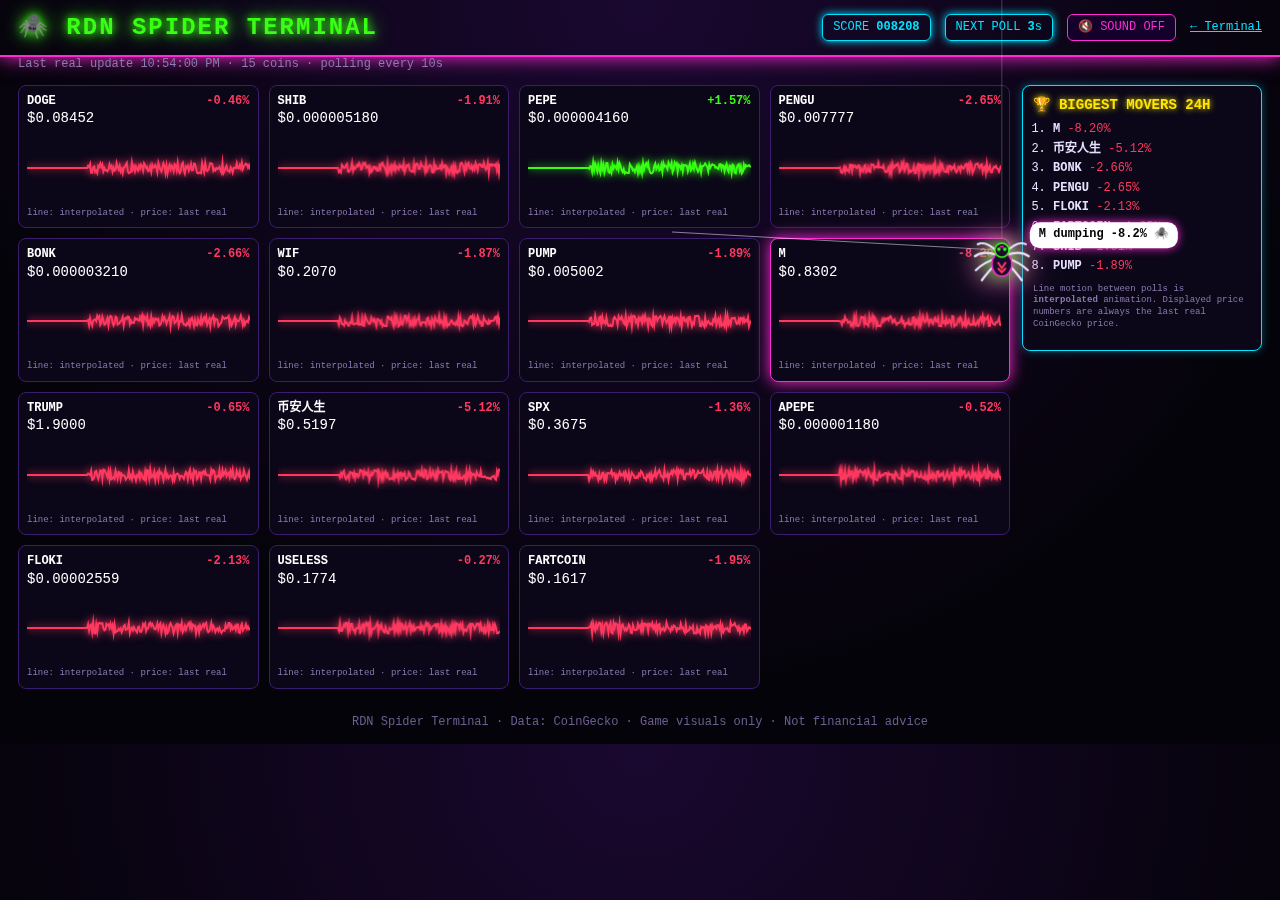
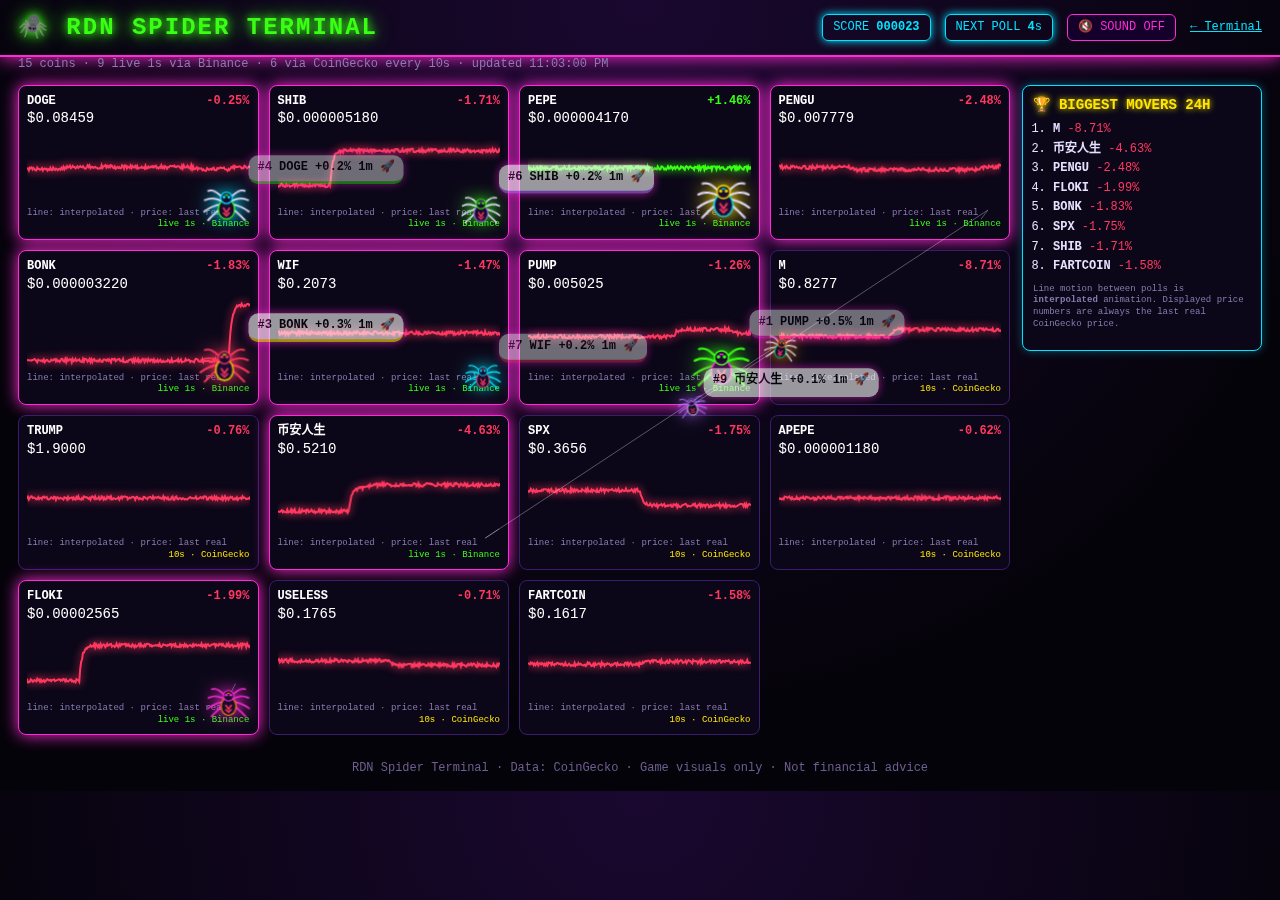
Spider Terminal: Binance 1s websocket prices w/ CoinGecko fallback, 9 spiders

Changed region(s): [[0.0, 0.0622, 0.9375, 0.84], [0.25, 0.7778, 0.7188, 0.9022]]

diff --git a/skull/index.html b/skull/index.html
@@ -14,9 +14,9 @@ button{background:#14002a;color:#ff2bd6;border:1px solid #ff2bd6;padding:5px 10p
 canvas.c{width:100%;height:80px;display:block}.p{font-size:14px;color:#fff}.lbl{font-size:9px;color:#8a7bb0}
 aside{background:#0b0718;border:1px solid #00e5ff;border-radius:8px;padding:10px;box-shadow:0 0 10px #00e5ff55;height:fit-content}
 aside h3{margin:0 0 8px;color:#ffe600;text-shadow:0 0 6px #ffe600}aside ol{margin:0;padding-left:20px}aside li{margin:4px 0}
-#skull{position:fixed;left:0;top:0;width:64px;height:64px;pointer-events:none;z-index:10;filter:drop-shadow(0 0 10px #39ff14) drop-shadow(0 0 14px #ff2bd6)}
+.sp{position:fixed;left:0;top:0;pointer-events:none;z-index:10}.sp svg{width:100%;height:100%;filter:drop-shadow(0 0 8px var(--c2))}.src{font-size:9px;float:right}.src.b{color:#39ff14}.src.g{color:#ffe600}
 #trail{position:fixed;inset:0;pointer-events:none;z-index:9}
-#bub{position:fixed;left:0;top:0;z-index:11;background:#fff;color:#000;font-weight:700;padding:5px 9px;border-radius:10px;white-space:nowrap;pointer-events:none;box-shadow:0 0 10px #ff2bd6}
+.bub{position:fixed;left:0;top:0;transition:opacity .4s;z-index:11;background:#fff;color:#000;font-weight:700;padding:5px 9px;border-radius:10px;white-space:nowrap;pointer-events:none;box-shadow:0 0 10px #ff2bd6}
 #st{color:#8a7bb0;padding:0 18px}footer{text-align:center;color:#6d5f90;padding:14px}a{color:#00e5ff}
 @media(max-width:800px){.wrap{grid-template-columns:1fr}}
 </style></head><body>
@@ -24,52 +24,79 @@ aside h3{margin:0 0 8px;color:#ffe600;text-shadow:0 0 6px #ffe600}aside ol{margi
 <div id="st">Loading real prices…</div>
 <div class="wrap"><div id="grid"></div><aside><h3>🏆 BIGGEST MOVERS 24H</h3><ol id="lb"></ol><p class="lbl">Line motion between polls is <b>interpolated</b> animation. Displayed price numbers are always the last real CoinGecko price.</p></aside></div>
 <canvas id="trail"></canvas>
-<svg id="skull" viewBox="0 0 64 64"><style>.lg{stroke:#e8e0ff;stroke-width:2.2;fill:none;stroke-linecap:round}.L{transform-origin:32px 34px;animation:wg .18s infinite alternate ease-in-out}.R{transform-origin:32px 34px;animation:wg .18s infinite alternate-reverse ease-in-out}@keyframes wg{from{transform:rotate(-7deg)}to{transform:rotate(7deg)}}</style>
-<g class="L"><path class="lg" d="M28 30 Q16 18 8 22"/><path class="lg" d="M27 33 Q14 28 5 34"/><path class="lg" d="M27 36 Q14 40 6 48"/><path class="lg" d="M28 39 Q18 50 12 58"/></g>
+<svg width="0" height="0" style="position:absolute"><style>.lg{stroke:var(--leg);stroke-width:2.2;fill:none;stroke-linecap:round}.L{transform-origin:32px 34px;animation:wg .18s infinite alternate ease-in-out}.R{transform-origin:32px 34px;animation:wg .18s infinite alternate-reverse ease-in-out}@keyframes wg{from{transform:rotate(-7deg)}to{transform:rotate(7deg)}}</style><defs><symbol id="spd" viewBox="0 0 64 64"><g class="L"><path class="lg" d="M28 30 Q16 18 8 22"/><path class="lg" d="M27 33 Q14 28 5 34"/><path class="lg" d="M27 36 Q14 40 6 48"/><path class="lg" d="M28 39 Q18 50 12 58"/></g>
 <g class="R"><path class="lg" d="M36 30 Q48 18 56 22"/><path class="lg" d="M37 33 Q50 28 59 34"/><path class="lg" d="M37 36 Q50 40 58 48"/><path class="lg" d="M36 39 Q46 50 52 58"/></g>
-<ellipse cx="32" cy="42" rx="10" ry="12" fill="#1a0b2e" stroke="#ff2bd6" stroke-width="1.5"/><path d="M28 40 L32 46 L36 40 M28 46 L32 50 L36 46" stroke="#ff3860" stroke-width="2" fill="none"/>
-<circle cx="32" cy="28" r="7" fill="#1a0b2e" stroke="#39ff14" stroke-width="1.5"/><circle cx="29" cy="27" r="1.8" fill="#39ff14"/><circle cx="35" cy="27" r="1.8" fill="#39ff14"/><circle cx="31" cy="24.5" r="1" fill="#ff2bd6"/><circle cx="33" cy="24.5" r="1" fill="#ff2bd6"/></svg>
-<div id="bub">🕷 loading…</div>
-<footer>RDN Spider Terminal · Data: CoinGecko · Game visuals only · Not financial advice</footer>
+<ellipse cx="32" cy="42" rx="10" ry="12" fill="#1a0b2e" stroke="var(--c1)" stroke-width="1.5"/><path d="M28 40 L32 46 L36 40 M28 46 L32 50 L36 46" stroke="#ff3860" stroke-width="2" fill="none"/>
+<circle cx="32" cy="28" r="7" fill="#1a0b2e" stroke="var(--c2)" stroke-width="1.5"/><circle cx="29" cy="27" r="1.8" fill="var(--c2)"/><circle cx="35" cy="27" r="1.8" fill="var(--c2)"/><circle cx="31" cy="24.5" r="1" fill="var(--c1)"/><circle cx="33" cy="24.5" r="1" fill="var(--c1)"/></symbol></defs></svg><div id="spiders"></div>
+
+<footer>RDN Spider Terminal · Data: Binance &amp; CoinGecko · Game visuals only · Not financial advice</footer>
 <script>
 const API="https://api.coingecko.com/api/v3",BASE=["dogecoin","shiba-inu","pepe","bonk","dogwifcoin","pudgy-penguins"],POLL=10000;
-let coins={},order=[],score=0,sound=false,next=Date.now()+POLL,actx;
+let coins={},order=[],score=0,sound=false,next=Date.now()+POLL,actx,bsrc=null,bmap={},pend={};
 const $=i=>document.getElementById(i),st=m=>$("st").textContent=m;
 const fmt=p=>p==null?"—":p>=1?"$"+p.toFixed(4):"$"+p.toFixed(Math.min(12,-Math.floor(Math.log10(p))+3));
 async function get(u){const r=await fetch(u);if(r.status===429)throw Error("rate limited");if(!r.ok)throw Error("HTTP "+r.status);return r.json()}
+function setReal(o,price,ch,src){const prev=o.price;o.price=price;if(ch!=null)o.ch=ch;o.src=src;const now=Date.now();o.pts.push([now,price]);while(o.pts.length&&now-o.pts[0][0]>60000)o.pts.shift();
+ o.recent=(price-o.pts[0][1])/o.pts[0][1]*100;
+ o.el.querySelector(".p").textContent=fmt(price);const e=o.el.querySelector(".ch");e.textContent=(o.ch>=0?"+":"")+(o.ch||0).toFixed(2)+"%";e.className="ch "+(o.ch>=0?"up":"dn");
+ const s=o.el.querySelector(".src");s.textContent=src=="b"?"live 1s · "+bsrc.name:"10s · CoinGecko";s.className="src "+src;
+ if(prev&&price!==prev)score+=1}
 async function poll(){next=Date.now()+POLL;try{
- const ids=order.length?order.join(","):"";
- let d;if(order.length){d=await get(`${API}/coins/markets?vs_currency=usd&ids=${order.join(",")}&per_page=50`)}else{d=await get(`${API}/coins/markets?vs_currency=usd&category=meme-token&order=market_cap_desc&per_page=16&page=1&price_change_percentage=24h`);
+ let d;if(order.length){const ids=order.filter(i=>coins[i].src!=="b");d=ids.length?await get(`${API}/coins/markets?vs_currency=usd&ids=${ids.join(",")}&per_page=50`):[]}else{d=await get(`${API}/coins/markets?vs_currency=usd&category=meme-token&order=market_cap_desc&per_page=16&page=1`);
  const miss=BASE.filter(id=>!d.find(c=>c.id===id));if(miss.length)d=d.concat(await get(`${API}/coins/markets?vs_currency=usd&ids=${miss.join(",")}`))}
  d.sort((a,b)=>(BASE.indexOf(b.id)>=0)-(BASE.indexOf(a.id)>=0));
- let best=null;
- const seen=new Set();for(const c of d){if(seen.has(c.symbol.toUpperCase())&&!coins[c.id])continue;seen.add(c.symbol.toUpperCase());if(order.length>=16&&!coins[c.id])continue;let o=coins[c.id];if(!o){o=coins[c.id]={id:c.id,sym:c.symbol.toUpperCase(),hist:[],disp:c.current_price,el:card(c)};order.push(c.id)}
-  const prev=o.price;o.price=c.current_price;o.ch=c.price_change_percentage_24h;
-  const tick=prev?(o.price-prev)/prev*100:0;o.tick=tick;
-  if(!o.hist.length)o.hist=Array(60).fill(o.price);
-  if(!best||Math.abs(tick)>Math.abs(best.tick)||(!tick&&!best.tick&&Math.abs(o.ch||0)>Math.abs(best.ch||0)))best=o;
-  o.el.querySelector(".p").textContent=fmt(o.price);const e=o.el.querySelector(".ch");e.textContent=(o.ch>=0?"+":"")+(o.ch||0).toFixed(2)+"%";e.className="ch "+(o.ch>=0?"up":"dn")}
- board();if(best)fly(best);st("Last real update "+new Date().toLocaleTimeString()+" · "+order.length+" coins · polling every 10s");
+ const seen=new Set(order.map(i=>coins[i].sym));for(const c of d){let o=coins[c.id];const S=c.symbol.toUpperCase();
+  if(!o){if(seen.has(S)||order.length>=16)continue;seen.add(S);o=coins[c.id]={id:c.id,sym:S,hist:[],pts:[],disp:c.current_price,cg:c.current_price,el:card(c)};order.push(c.id)}
+  o.cg=c.current_price;if(o.src!=="b")setReal(o,c.current_price,c.price_change_percentage_24h,"g");
+  if(!o.hist.length)o.hist=Array(240).fill(o.price)}
+ if(!bsrc&&!window._bt){window._bt=1;startBinance()}
+ st(statusTxt());
 }catch(e){st("CoinGecko "+e.message+" — keeping last real prices, backing off 60s");next=Date.now()+60000}
  setTimeout(poll,next-Date.now())}
-function card(c){const d=document.createElement("div");d.className="card";d.innerHTML=`<div class="t"><span class="sym">${c.symbol.toUpperCase()}</span><span class="ch"></span></div><div class="p"></div><canvas class="c"></canvas><div class="lbl">line: interpolated · price: last real</div>`;$("grid").appendChild(d);return d}
-function board(){const a=order.map(i=>coins[i]).sort((x,y)=>Math.abs(y.ch||0)-Math.abs(x.ch||0)).slice(0,8);$("lb").innerHTML=a.map(o=>`<li><b>${o.sym}</b> <span class="${o.ch>=0?"up":"dn"}">${(o.ch>=0?"+":"")+o.ch.toFixed(2)}%</span></li>`).join("")}
-// animation ~10fps
-setInterval(()=>{$("cd").textContent=Math.max(0,Math.ceil((next-Date.now())/1000));for(const id of order){const o=coins[id];
- o.disp+=(o.price-o.disp)*0.15;const v=o.disp*(1+(Math.random()-.5)*0.0006);o.hist.push(v);if(o.hist.length>240)o.hist.shift();draw(o)}},50);
+function statusTxt(){const nb=order.filter(i=>coins[i].src=="b").length;return `${order.length} coins · ${nb} live 1s via ${bsrc?bsrc.name:"(Binance unavailable)"} · ${order.length-nb} via CoinGecko every 10s · updated ${new Date().toLocaleTimeString()}`}
+function card(c){const d=document.createElement("div");d.className="card";d.innerHTML=`<div class="t"><span class="sym">${c.symbol.toUpperCase()}</span><span class="ch"></span></div><div class="p"></div><canvas class="c"></canvas><div class="lbl">line: interpolated · price: last real <span class="src g">10s · CoinGecko</span></div>`;$("grid").appendChild(d);return d}
+// Binance: prefer data-stream.binance.vision, then binance.us
+const BIN=[{name:"Binance",rest:"https://data-api.binance.vision/api/v3/ticker/price",ws:"wss://data-stream.binance.vision/stream?streams="},
+ {name:"Binance",rest:"https://data-api.binance.vision/api/v3/ticker/price",ws:"wss://stream.binance.com:9443/stream?streams="},
+ {name:"Binance.US",rest:"https://api.binance.us/api/v3/ticker/price",ws:"wss://stream.binance.us:9443/stream?streams="}];
+async function startBinance(k=0){if(k>=BIN.length){st(statusTxt());return}const B=BIN[k];
+ try{const r=await fetch(B.rest);if(!r.ok)throw 0;const l=await r.json(),have={};l.forEach(x=>have[x.symbol]=+x.price);
+  const map={};for(const id of order){const o=coins[id],p=have[o.sym+"USDT"];if(p&&Math.abs(p/o.cg-1)<0.15)map[(o.sym+"usdt").toLowerCase()]=id}
+  if(!Object.keys(map).length)throw 0;
+  const ws=new WebSocket(B.ws+Object.keys(map).map(s=>s+"@miniTicker").join("/"));let ok=false;
+  const to=setTimeout(()=>{if(!ok){ws.close();startBinance(k+1)}},6000);
+  ws.onmessage=e=>{const m=JSON.parse(e.data).data;if(!m)return;if(!ok){ok=true;clearTimeout(to);bsrc=B;bmap=map}pend[map[m.s.toLowerCase()]]=m};
+  ws.onclose=()=>{if(ok){bsrc=null;for(const id in bmap)coins[id].src="g";setTimeout(()=>startBinance(0),5000)}};ws.onerror=()=>{};
+ }catch(e){startBinance(k+1)}}
+setInterval(()=>{for(const id in pend){const m=pend[id],o=coins[id];setReal(o,+m.c,(m.c-m.o)/m.o*100,"b")}pend={};if(bsrc)st(statusTxt());board();assign()},1000);
+function board(){const a=order.map(i=>coins[i]).filter(o=>o.ch!=null).sort((x,y)=>Math.abs(y.ch)-Math.abs(x.ch)).slice(0,8);$("lb").innerHTML=a.map(o=>`<li><b>${o.sym}</b> <span class="${o.ch>=0?"up":"dn"}">${(o.ch>=0?"+":"")+o.ch.toFixed(2)}%</span></li>`).join("");$("score").textContent=String(score).padStart(6,"0")}
+// line animation 20fps
+setInterval(()=>{$("cd").textContent=Math.max(0,Math.ceil((next-Date.now())/1000));for(const id of order){const o=coins[id];if(o.price==null)continue;
+ o.disp+=(o.price-o.disp)*0.3;const v=o.disp*(1+(Math.random()-.5)*0.0002);o.hist.push(v);if(o.hist.length>240)o.hist.shift();draw(o)}},50);
 function draw(o){const c=o.el.querySelector("canvas"),w=c.width=c.clientWidth,h=c.height=80,x=c.getContext("2d"),a=o.hist,mn=Math.min(...a),mx=Math.max(...a),r=Math.max(mx-mn,mn*0.004)||1,lo=(mx+mn)/2-r/2;
  const col=o.ch>=0?"#39ff14":"#ff3860";x.strokeStyle=col;x.shadowColor=col;x.shadowBlur=8;x.lineWidth=2;x.beginPath();
  a.forEach((v,i)=>{const px=i/(a.length-1)*w,py=h-4-(v-lo)/r*(h-8);i?x.lineTo(px,py):x.moveTo(px,py)});x.stroke()}
-// skull
-let sx=innerWidth/2,sy=200,tx=sx,ty=sy,trail=[];const tc=$("trail"),tg=tc.getContext("2d");
-function fly(o){document.querySelectorAll(".card.hot").forEach(e=>e.classList.remove("hot"));o.el.classList.add("hot");
- const b=o.el.getBoundingClientRect();tx=b.left+b.width-40;ty=b.top-20;const up=(o.tick||o.ch)>=0,pct=o.tick?o.tick:o.ch;
- $("bub").textContent=up?`${o.sym} ${(pct>=0?"+":"")+pct.toFixed(Math.abs(pct)<.1?3:1)}% 🚀`:`${o.sym} dumping ${pct.toFixed(Math.abs(pct)<.1?3:1)}% 🕷`;
- score+=Math.round(Math.abs(o.tick||o.ch||0)*1000)+10;$("score").textContent=String(score).padStart(6,"0");if(sound)beep(up)}
+// 9 spiders
+const PAL=[["#ff2bd6","#39ff14"],["#00e5ff","#ffe600"],["#ffe600","#ff3860"],["#39ff14","#00e5ff"],["#ff8a00","#ff2bd6"],["#b26bff","#39ff14"],["#ff3860","#00e5ff"],["#00ffa3","#ff8a00"],["#ffffff","#b26bff"]];
+const tc=$("trail"),tg=tc.getContext("2d"),SP=[];
+for(let i=0;i<9;i++){const sz=Math.round(64-i*4),[c1,c2]=PAL[i],el=document.createElement("div");el.className="sp";el.style.cssText+=`width:${sz}px;height:${sz}px;--c1:${c1};--c2:${c2};--leg:${i%2?"#e8e0ff":c2}`;
+ el.innerHTML=`<svg viewBox="0 0 64 64"><use href="#spd"/></svg>`;const b=document.createElement("div");b.className="bub";b.style.opacity=0;b.style.borderBottom=`3px solid ${c1}`;
+ document.body.append(el,b);SP.push({el,b,sz,x:Math.random()*innerWidth,y:innerHeight-80,tx:0,ty:0,trail:[],c1,id:null,ph:Math.random()*6})}
+function assign(){const r=order.map(i=>coins[i]).filter(o=>o.price!=null).sort((a,b)=>(Math.abs(b.recent||0)-Math.abs(a.recent||0))||(Math.abs(b.ch||0)-Math.abs(a.ch||0)));
+ document.querySelectorAll(".card.hot").forEach(e=>e.classList.remove("hot"));
+ SP.forEach((s,i)=>{const o=r[i];if(!o)return;if(s.id!==o.id&&i===0&&sound)beep((o.recent||o.ch)>=0);s.id=o.id;o.el.classList.add("hot");
+  const bb=o.el.getBoundingClientRect();s.tx=bb.left+bb.width-s.sz-6;s.ty=bb.top+bb.height-s.sz-14;
+  const pct=Math.abs(o.recent||0)>0.0005?o.recent:o.ch,lbl=Math.abs(o.recent||0)>0.0005?"1m":"24h",up=pct>=0;
+  s.b.textContent=`#${i+1} ${o.sym} ${up?"+":""}${pct.toFixed(Math.abs(pct)<.1?3:1)}% ${lbl} ${up?"🚀":"🕷"}`;
+  const slot=Math.floor(Date.now()/2500)%3;s.b.style.opacity=(i%3===slot)?1:0})}
 function beep(up){actx=actx||new AudioContext();const g=actx.createGain(),os=actx.createOscillator();os.type="square";os.frequency.value=up?880:220;g.gain.value=.05;os.connect(g).connect(actx.destination);os.start();os.stop(actx.currentTime+.12)}
 $("snd").onclick=()=>{sound=!sound;$("snd").textContent=sound?"🔊 SOUND ON":"🔇 SOUND OFF"};
-(function loop(t){sx+=(tx-sx)*0.12;sy+=(ty-sy)*0.12;const wob=Math.sin(t/100)*4;trail.push([sx+32,sy+32]);if(trail.length>60)trail.shift();
- tc.width=innerWidth;tc.height=innerHeight;tg.strokeStyle='rgba(235,230,255,.55)';tg.lineWidth=1;tg.beginPath();trail.forEach((p,i)=>i?tg.lineTo(p[0],p[1]):tg.moveTo(p[0],p[1]));tg.stroke();tg.beginPath();tg.moveTo(sx+32,0);tg.lineTo(sx+32,sy+20);tg.strokeStyle='rgba(235,230,255,.25)';tg.stroke();
- $("skull").style.transform=`translate(${sx}px,${sy+wob}px) rotate(${(tx-sx)*0.05}deg)`;const bw=$("bub").offsetWidth;$("bub").style.transform=`translate(${sx+70+bw>innerWidth?sx-bw-6:sx+60}px,${sy+wob}px)`;requestAnimationFrame(loop)})(0);
+addEventListener("scroll",assign);addEventListener("resize",assign);
+(function loop(t){tc.width=innerWidth;tc.height=innerHeight;
+ SP.forEach((s,i)=>{s.x+=(s.tx-s.x)*0.12;s.y+=(s.ty-s.y)*0.12;const wob=Math.sin(t/100+s.ph)*3;s.trail.push([s.x+s.sz/2,s.y+s.sz/2]);if(s.trail.length>40)s.trail.shift();
+  tg.strokeStyle="rgba(235,230,255,.35)";tg.lineWidth=1;tg.beginPath();s.trail.forEach((p,k)=>k?tg.lineTo(p[0],p[1]):tg.moveTo(p[0],p[1]));tg.stroke();
+  s.el.style.transform=`translate(${s.x}px,${s.y+wob}px) rotate(${(s.tx-s.x)*0.05}deg)`;
+  const bw=s.b.offsetWidth;s.b.style.transform=`translate(${s.x+s.sz+bw>innerWidth?s.x-bw-4:s.x+s.sz-4}px,${s.y-20+wob}px)`});
+ requestAnimationFrame(loop)})(0);
 poll();
 </script></body></html>
